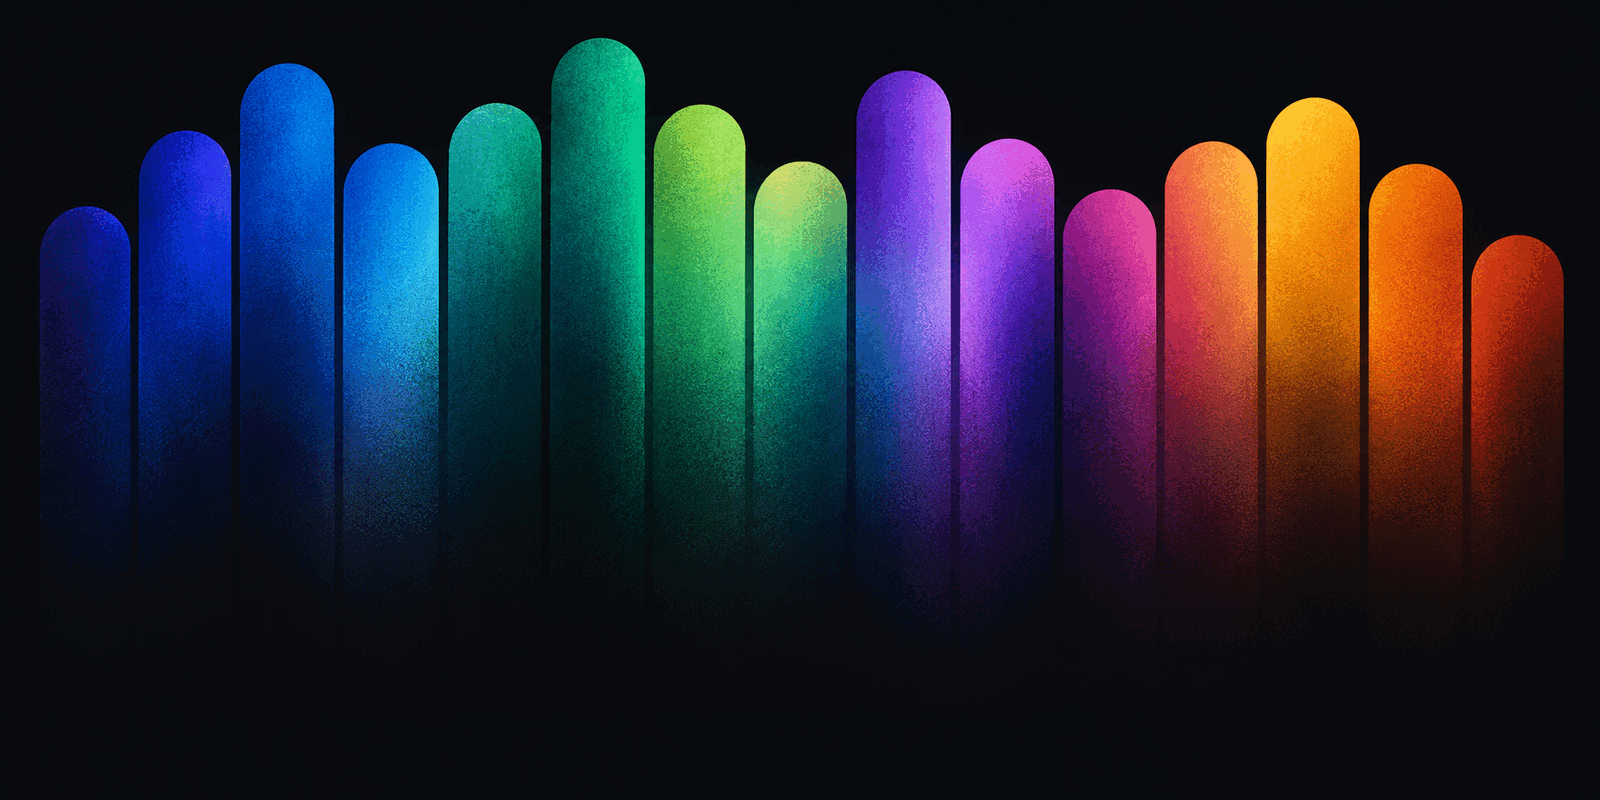
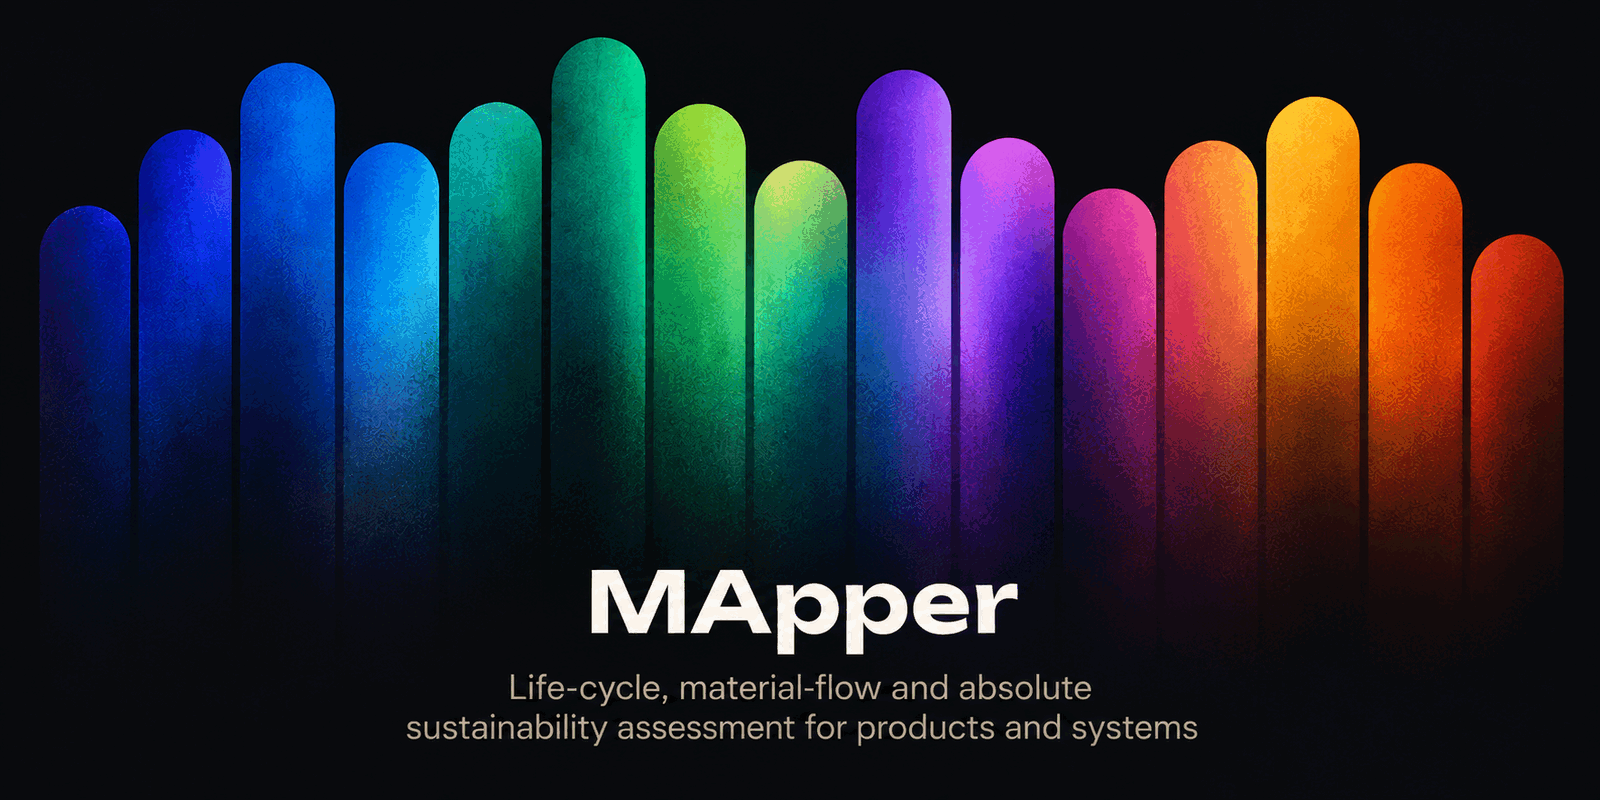
README hero: the version carrying the wordmark and tagline (#154)
* README hero: the version carrying the wordmark and tagline

Same treatment as before -- 1600x800, which is 2x its 800px rendered width,
quantised to 256 colours: 299 KB from a 1.9 MB source.

This version carries type, which the first did not, so the quantisation was
checked against the text rather than only against the whole image: PSNR 37.9 dB
over the wordmark and tagline, against 34.4 dB overall, and the letterforms
were inspected at 1:1 for the fringing that palette reduction can leave on
anti-aliased white. There is none; the artwork's grain still does the
dithering. Dithering explicitly was tried and rejected -- it tripled the file
to 956 KB for 0.005 dB.

* Drop the duplicated subtitle; the alt text carries the tagline

The banner now says the tagline in type, and the line beneath it said the same
thing in different words. Two of them read as an untidied draft, so the prose
line goes.

Its one unique contribution was naming the four methods, which the banner
tagline does not -- and that survives: the sentence under the badges already
names all four in expanded form with their acronyms ("Life Cycle Assessment
(LCA), Dynamic Stock Modelling / Material Flow Analysis (DSM/MFA), prospective
LCA (pLCA), and Absolute Environmental Sustainability Assessment (AESA)"), and
the shorthand chain LCA -> pLCA -> DSM/MFA -> AESA appears twice more under Why
MApper. Nothing needed rewriting to hold it.

The alt text now carries the tagline, because with the prose line gone the
[…]

diff --git a/README.md b/README.md
@@ -1,10 +1,10 @@
 <p align="center">
-  <img src=".github/assets/hero.png" alt="MApper" width="800">
+  <img src=".github/assets/hero.png"
+       alt="MApper — life-cycle, material-flow and absolute sustainability assessment for products and systems"
+       width="800">
 </p>
 
 # MApper
-
-**Unified LCA · DSM/MFA · pLCA · AESA — a single workflow for system-level, time-resolved environmental sustainability analysis.**
 
 [![License: MPL 2.0](https://img.shields.io/badge/License-MPL_2.0-brightgreen.svg)](LICENSE)
 [![Build](https://github.com/leofrht-jpg/MApper-Software/actions/workflows/ci.yml/badge.svg)](https://github.com/leofrht-jpg/MApper-Software/actions/workflows/ci.yml)
